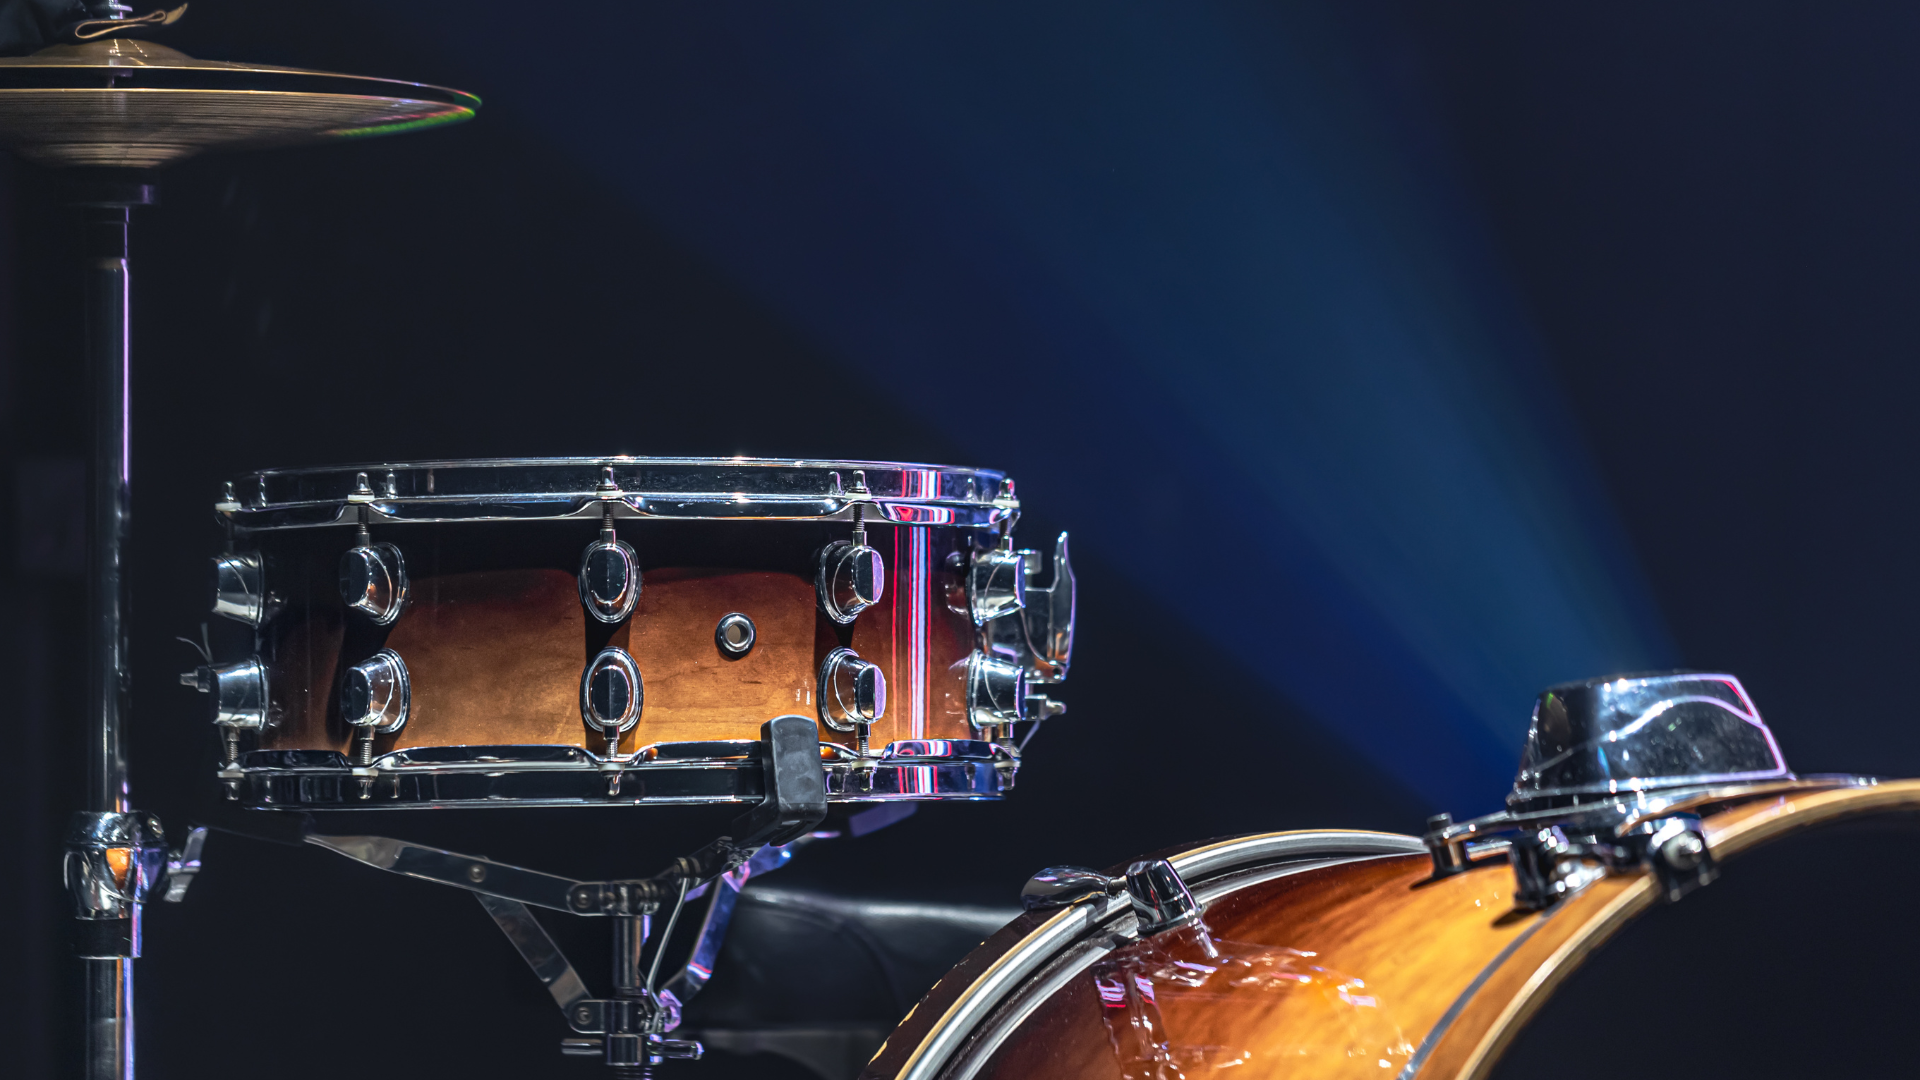
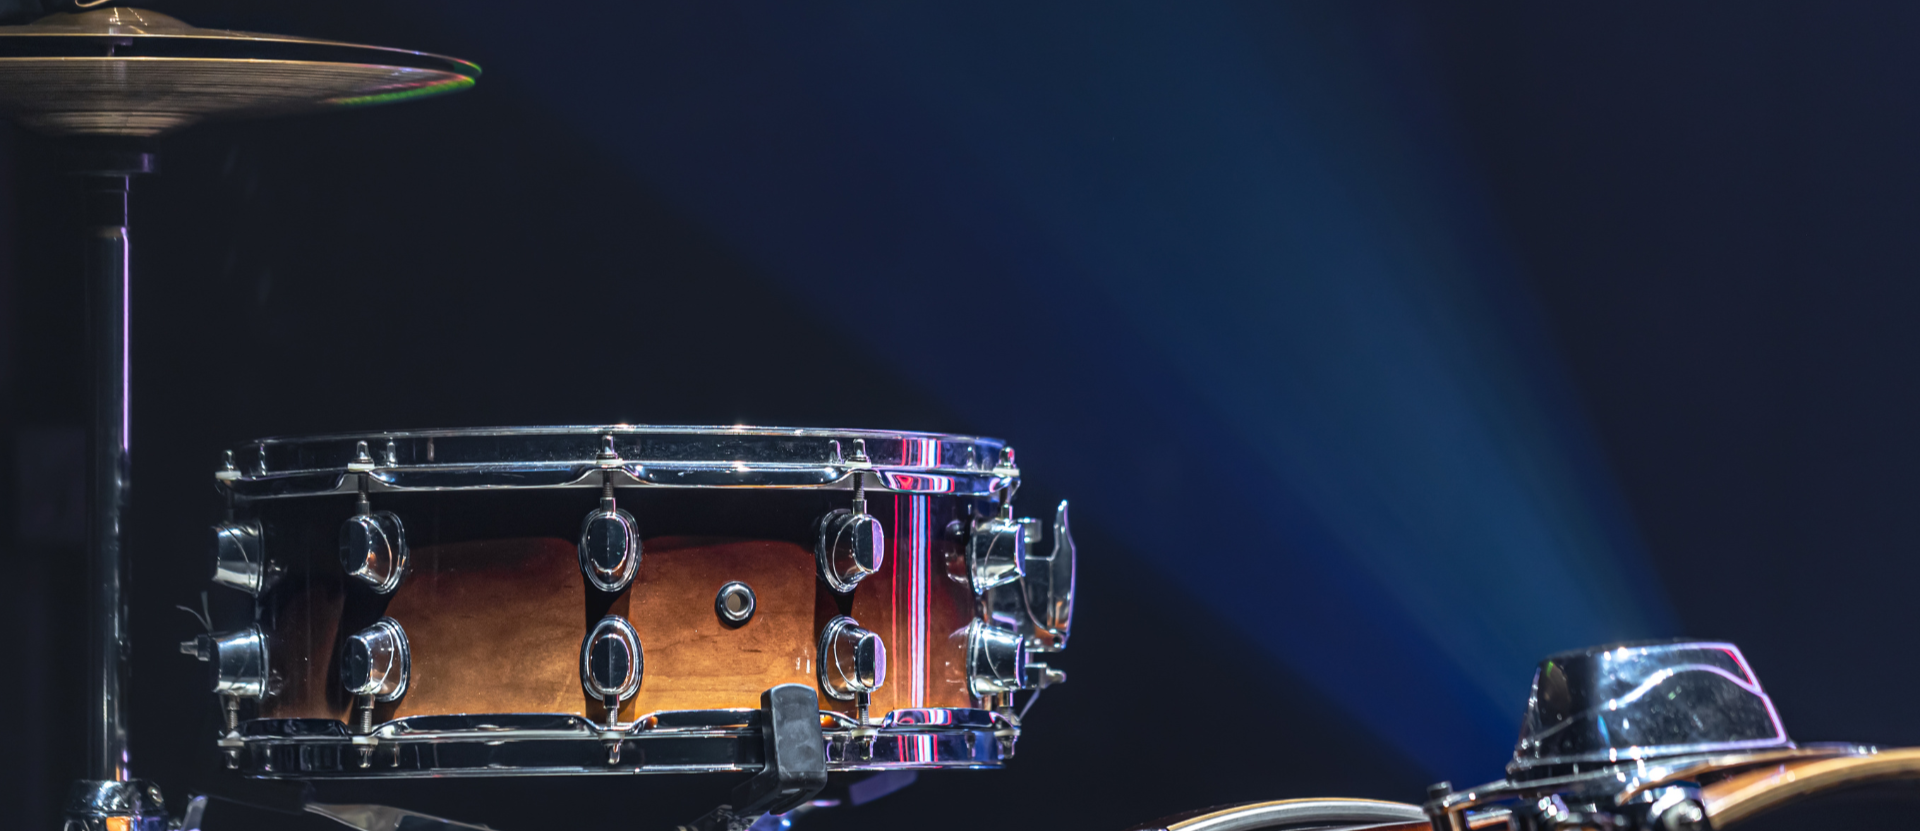
criando home

diff --git a/CSS/style.css b/CSS/style.css
@@ -1,27 +1,90 @@
-/* Navbar */
-.navbar {
-    position: top;
-}
-
-
-/* Style Cadastro */
 body {
     display: flex;
     justify-content: flex-end;
     align-items: center;
-    background-color: rgb(00, 02, 14);
-    background-image: url('../IMG/fundo-cad.png');
-    background-size: cover;
-    background-position: center;
-    background-repeat: no-repeat;
+    height: 100vh;
 
     font-family: "Titan One", sans-serif;
     font-weight: 300;
     font-style: normal;
 
+    justify-content: center;
+    align-items: center;
+    background-color: #000000;
+    /* background-image: url('../IMG/fundo-cad.png');
+    background-size: cover;
+    background-position: center; */
+    /* background-color: rgb(00, 02, 14); */
 
+
+    /* Alinha ao centro na vertical */
+
+    /* backdrop-filter: blur(px); efeito de desfoque */
 }
 
+/* Navbar */
+
+.navbar {
+    background-color: #0000006a;
+    position: fixed;
+    top: 0;
+    width: 100%;
+    z-index: 1000;
+
+    display: flex;
+    justify-content: center;
+    align-items: center;
+    padding: 10px 20px;
+    height: 35px;
+    border-radius: 10px;
+}
+
+img {
+    width: 45px;
+    height: 45px;
+    border-radius: 2px;
+    margin-left: 0;
+}
+
+
+.nav-links {
+    display: flex;
+    gap: 70px;
+}
+
+.nav-links a {
+    color: white;
+    text-decoration: none;
+    padding: 10px;
+}
+
+.nav-links a:hover {
+    color: black;
+    border-radius: 7px;
+    background-color: #ffffff;
+}
+
+/* Style Home */
+.fundo-home {
+    position: absolute;
+    top: 0;
+    left: 0;
+    width: 100%;
+    height: 100vh;
+    z-index: -1;
+}
+
+
+/* Imagem dentro da div */
+.fundo-home img {
+    margin-top: 0%;
+    width: 100%;
+    height: 90%;
+    /* object-fit: cover; */
+}
+
+
+/* Style Cadastro */
 
 .campos {
     display: flex;
@@ -33,9 +96,7 @@ body {
     background-color: rgba(0, 0, 0, 0.668);
     border-style: solid 2px;
     border-bottom: 3px solid rgb(255, 255, 255);
-
     gap: 10px;
-    margin: 60px;
 }
 
 input {
@@ -53,11 +114,29 @@ input {
     justify-content: center;
     padding: 10px;
     width: 75%;
+}
+
+select {
+    color: rgb(0, 0, 0);
+    padding: 7px;
+    width: 75%;
+    font-family: "Titan One", sans-serif;
+    font-style: normal;
+    text-align: center;
+    text-align-last: center;
+}
+
+option {
+    display: flex;
+    flex-direction: column;
+    align-items: center;
+    justify-content: center;
+    padding: 7px;
+    width: 75%;
 
 }
 
 .botao {
     padding: 20px;
-    font-family: 'Franklin Gothic Medium', 'Arial Narrow', Arial, sans-serif;
 
 }

diff --git a/HTML/home.html b/HTML/home.html
@@ -4,12 +4,33 @@
 <head>
     <meta charset="UTF-8">
     <meta name="viewport" content="width=device-width, initial-scale=1.0">
-    <title> Lab. Drums - Home </title>
+    <title> B'Drums - Home </title>
     <link rel="stylesheet" href="../CSS/style.css">
+
+    <link rel="preconnect" href="https://fonts.googleapis.com">
+    <link rel="preconnect" href="https://fonts.gstatic.com" crossorigin>
+    <link
+        href="https://fonts.googleapis.com/css2?family=Josefin+Sans:ital,wght@0,100..700;1,100..700&family=Special+Gothic+Expanded+One&family=Titan+One&display=swap"
+        rel="stylesheet">
+
 </head>
 
 <body>
 
-</body>
+    <div class="navbar">
+        <div class="logo">
+            <img src="../IMG/fundo cx e bt.jpg">
+        </div>
+        <div class="nav-links">
+            <a href="home.html" style="color: burlywood;"> INÍCIO </a>
+            <a href="login.html"> LOGIN </a>
+            <a href="info.html"> INFORMAÇÕES E CURIOSIDADES </a>
+            <a href="criador.html"> CRIADOR </a>
+            <a href="#"> QUIS </a>
+        </div>
 
-</html>
+    </div>
+    <div class="fundo-home">
+        <img src="../IMG/Mini-setup.png" class="">
+    </div>
+    <div class=""></div>

diff --git a/HTML/cadastro.html b/HTML/cadastro.html
@@ -16,15 +16,10 @@
 </head>
 
 <body>
+    <div class=" navbar nav-links botao-cadastro">
+        <a href="home.html"> INICIO </a>
 
-    <div class="navbar">
-        <div class="logo"></div>
-        <div class="nav-links">
-            <a href="home.html"> INÍCIO </a>
-            <a href="login.html"> LOGIN </a>
-            <a href="info.html"> INFORMAÇÕES </a>
-            <a href="#"> QUIS </a>
-        </div>
+        <a href="login.html">LOGIN </a>
     </div>
 
     <div class=" campos">
@@ -51,6 +46,15 @@
         <div class="inputs">
             <label for="inp_confirmarSenha"> Confirmar Senha: </label>
             <input type="password" id="inp_confirmarSenha" placeholder="******">
+        </div>
+        <div class="inputs">
+            <label for="inp_confirmarSenha"> Você é baterista? </label>
+            <select name="" id="">
+                <option disabled selected> Selecione uma opção </option>
+                <option value="0"> NÃO </option>
+                <option value="0">SIM </option>
+
+            </select>
         </div>
         <div class="botao">
             <button> ENTRAR </button>

diff --git a/HTML/info.html b/HTML/info.html
@@ -1,0 +1,31 @@
+<!DOCTYPE html>
+<html lang="en">
+
+<head>
+    <meta charset="UTF-8">
+    <meta name="viewport" content="width=device-width, initial-scale=1.0">
+    <title> B'Drums - Cadastro </title>
+    <link rel="stylesheet" href="../CSS/style.css">
+
+    <link rel="preconnect" href="https://fonts.googleapis.com">
+    <link rel="preconnect" href="https://fonts.gstatic.com" crossorigin>
+    <link
+        href="https://fonts.googleapis.com/css2?family=Josefin+Sans:ital,wght@0,100..700;1,100..700&family=Special+Gothic+Expanded+One&family=Titan+One&display=swap"
+        rel="stylesheet">
+
+</head>
+
+<body>
+
+    <div class="navbar">
+        <div class="logo">
+            <img src="../IMG/fundo cx e bt.jpg">
+        </div>
+        <div class="nav-links">
+            <a href="home.html"> INÍCIO </a>
+            <a href="login.html"> LOGIN </a>
+            <a href="info.html"> INFORMAÇÕES E CURIOSIDADES </a>
+            <a href="criador.html"> CRIADOR </a>
+            <a href="#"> QUIS </a>
+        </div>
+    </div>
